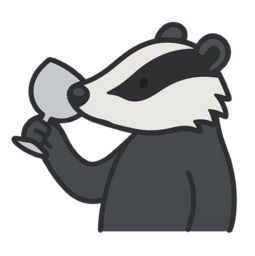
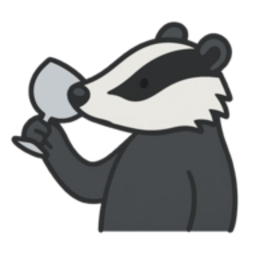
Blaireaux sur le calendrier + qq changements de couleurs

diff --git a/index.html b/index.html
@@ -13,7 +13,7 @@
   <meta name="og:title" content="Cherk'Alcooliques" />
   <meta name="og:description" content="Calendrier fait pour les alcooliques notoires" />
   <meta name="og:type" content="website" />
-  <meta name="og:image" content="assets/images/app-icon-512.png" />
+  <meta name="og:image" content="assets/images/blaireau-plein-512.png" />
   <!-- /meta -->
 
   <!-- google fonts -->
@@ -46,7 +46,7 @@
       accurateTrackBounce:true
     });
   </script>
-  <!-- /Yandex.Metrika counter -->
+  
 </head>
 <body>
   <noscript><div><img src="https://mc.yandex.ru/watch/96089720" style="position:absolute; left:-9999px;" alt="" /></div></noscript>
@@ -72,7 +72,7 @@
     <section class="statistic">
       <div class="statistic-title">Statistiques :</div>
       <div class="statistic-param">
-        Jours où j'ai bu : <span class="statistic-value" id="statistic-value-drinking"></span>
+        Jours où je me suis pinté : <span class="statistic-value" id="statistic-value-drinking"></span>
       </div>
       <div class="statistic-param">
         Jours sans boire : <span class="statistic-value" id="statistic-value-not-drink"></span>

diff --git a/src/css/calendar.css b/src/css/calendar.css
@@ -45,26 +45,31 @@
 }
 
 .calendar .cell {
+  color: rgb(207, 93, 0);
   padding: 3px 11px 0;
-
   background-size: contain;
   background-repeat: no-repeat;
   background-position: center;
-
   cursor: pointer;
+  font-size: 12px;
+  display: flex;
+  align-items: flex-end;
+  justify-content: flex-end;
+  padding-bottom: 3px;
+  padding-right: 9px;
 }
 
 .cell.empty {
-  background-image: url("icons/empty-glass.svg");
+  background-image: url("icons/blaireau-vide-800.png");
 }
 
 .cell.full {
-  background-image: url("icons/full-glass.svg");
+  background-image: url("icons/blaireau-plein-800.png");
 }
 
 .cell.not-come {
-  background-image: url("icons/not-come-glass.svg");
-  color: var(--not-come-text-color);
+  background-image: url("icons/blaireau-attend-800.png");
+  color:rgb(196, 196, 0) 
 }
 
 .cell.today {
